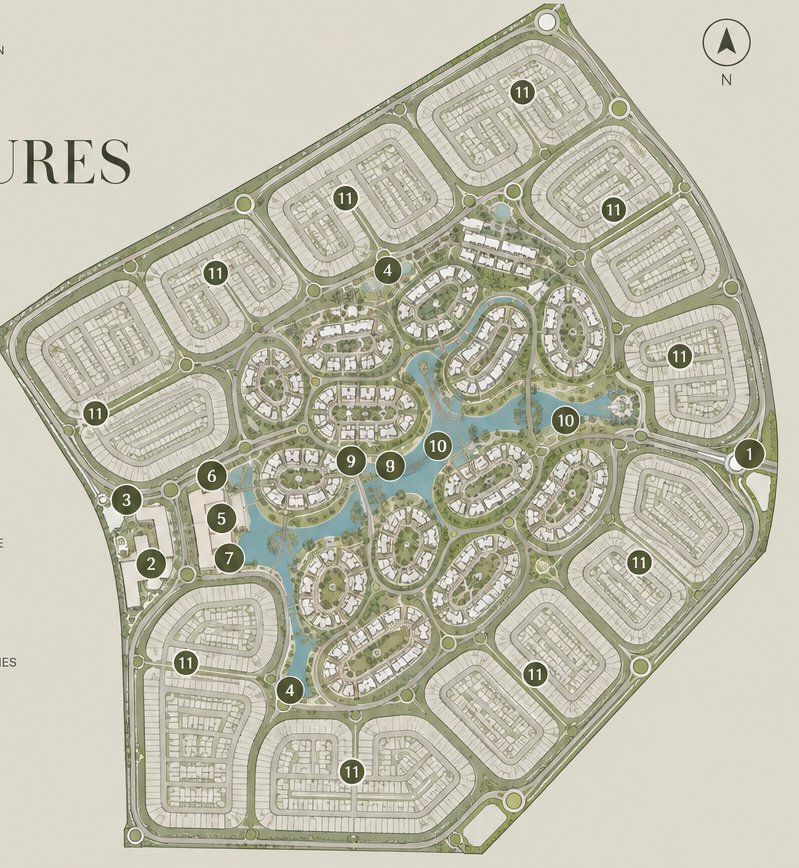
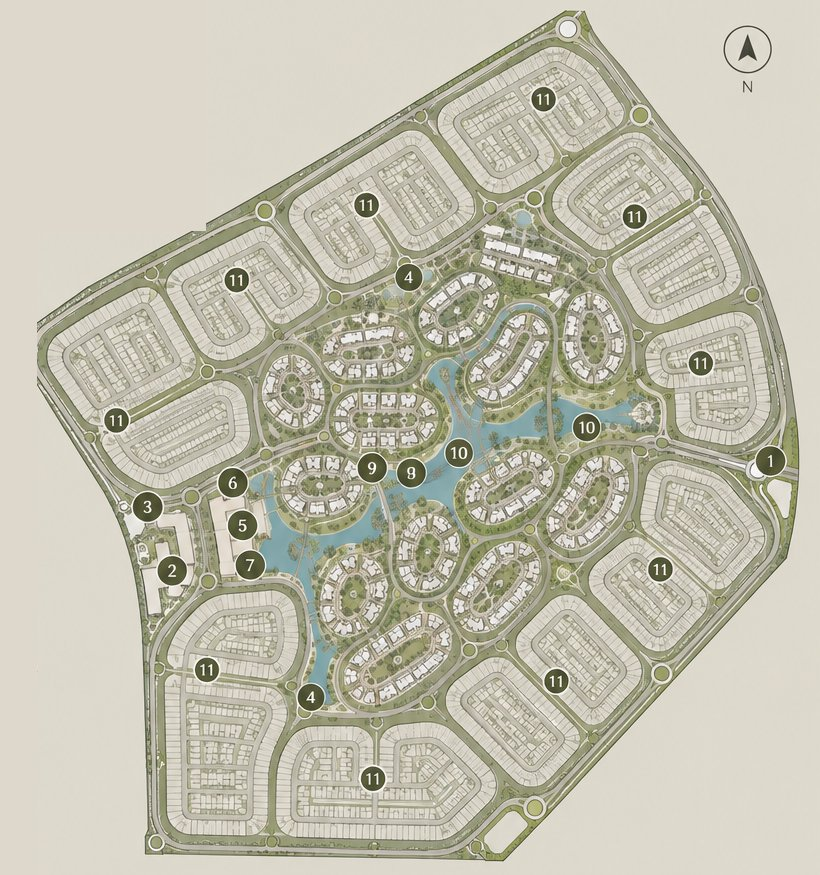
Fix hero frame seams, unify masterplan green, clean key features plan
- Hero frame is now positioned and sized in whole pixels (no -50% translate
  on fractional widths) and its media overdraws by 1px, removing the
  hairline flicker at the edges while it expands.
- Masterplan stage uses the same stone texture as the hero backdrop.
- Key features plan crop no longer shows remnants of the poster title.

Claude-Session: https://claude.ai/code/session_016YVPHK7SMDbMY3wcG3DtUr

diff --git a/src/components/scroll-expand.tsx b/src/components/scroll-expand.tsx
@@ -154,8 +154,23 @@ export function ScrollExpand({
 
     const apply = (progress: number) => {
       const styles = stylesFor(progress, geometry, window.innerWidth < 640);
+      // Snap the frame to whole pixels: fractional widths plus a -50% translate leave hairline
+      // seams at the edges while the frame animates.
+      const stage = stageRef.current;
+      const frame = frameRef.current;
+      if (stage && frame) {
+        const W = stage.clientWidth;
+        const H = stage.clientHeight;
+        const w = Math.round((parseFloat(String(styles.frame.width)) / 100) * W);
+        const h = Math.round((parseFloat(String(styles.frame.height)) / 100) * H);
+        frame.style.width = `${w}px`;
+        frame.style.height = `${h}px`;
+        frame.style.left = `${Math.round((W - w) / 2)}px`;
+        frame.style.top = `${Math.round((H - h) / 2)}px`;
+        frame.style.transform = "none";
+        frame.style.borderRadius = String(styles.frame.borderRadius);
+      }
       stageRef.current?.style.setProperty("--sx-e", String(easeOut(progress)));
-      Object.assign(frameRef.current?.style ?? {}, styles.frame);
       Object.assign(mediaRef.current?.style ?? {}, styles.media);
       Object.assign(scrimRef.current?.style ?? {}, styles.scrim);
       Object.assign(titleRef.current?.style ?? {}, styles.title);
@@ -280,8 +295,8 @@ export function ScrollExpand({
       ) : null}
       <div
         ref={frameRef}
-        style={initial.frame}
-        className="absolute left-1/2 top-1/2 -translate-x-1/2 -translate-y-1/2 overflow-hidden bg-muted will-change-[width,height,border-radius]"
+        className="absolute left-1/2 top-1/2 -translate-x-1/2 -translate-y-1/2 overflow-hidden bg-muted [backface-visibility:hidden] [contain:layout_paint]"
+        style={{ ...initial.frame, backgroundColor: backdropColor ?? undefined }}
       >
         <img
           ref={mediaRef}
@@ -289,7 +304,7 @@ export function ScrollExpand({
           alt={alt}
           fetchPriority="high"
           style={initial.media}
-          className="absolute inset-0 h-full w-full object-cover object-center will-change-transform"
+          className="absolute -inset-px h-[calc(100%+2px)] w-[calc(100%+2px)] object-cover object-center will-change-transform"
         />
         {/* Bottom gradient keeps the title legible in the small frame; the uniform scrim fades in as it expands. */}
         {coverSrc ? (
@@ -299,7 +314,7 @@ export function ScrollExpand({
             alt={coverAlt}
             fetchPriority="high"
             style={initial.cover}
-            className="absolute inset-0 h-full w-full object-cover object-center"
+            className="absolute -inset-px h-[calc(100%+2px)] w-[calc(100%+2px)] object-cover object-center"
           />
         ) : null}
         <div

diff --git a/src/routes/portfolio_.$slug.tsx b/src/routes/portfolio_.$slug.tsx
@@ -402,8 +402,13 @@ function ProjectPage() {
           const stage = details.coverBackdrop ?? "#42473a";
           return (
             <div
-              className={`flex h-full flex-col justify-center py-3 text-[#efe9dc] md:py-6 ${sectionPadding}`}
-              style={{ backgroundColor: stage }}
+              className={`flex h-full flex-col justify-center bg-cover bg-center py-3 text-[#efe9dc] md:py-6 ${sectionPadding}`}
+              style={{
+                backgroundColor: stage,
+                ...(details.coverTexture
+                  ? { backgroundImage: `url(${details.coverTexture.src})` }
+                  : {}),
+              }}
             >
               <div className="grid gap-5 md:grid-cols-[0.8fr_0.85fr_1.15fr] md:items-center md:gap-12 lg:gap-16">
                 {/* Heading + step navigator */}
@@ -562,15 +567,15 @@ function ProjectPage() {
               type="button"
               onClick={() => setOpenMasterplan(true)}
               aria-label="Open the full masterplan"
-              className="group relative block cursor-pointer overflow-hidden border border-border bg-[#e7e2d6] text-left outline-none focus-visible:ring-2 focus-visible:ring-ring"
+              className="group relative block cursor-pointer overflow-hidden border border-border bg-[#dfdbcf] text-left outline-none focus-visible:ring-2 focus-visible:ring-ring"
             >
               <img
                 src={details.keyFeaturesMap.plan.src}
                 alt={details.keyFeaturesMap.plan.alt}
-                width={799}
-                height={868}
+                width={819}
+                height={875}
                 loading="lazy"
-                className="aspect-[799/868] w-full object-cover transition-transform duration-700 group-hover:scale-[1.02]"
+                className="aspect-[819/875] w-full object-cover transition-transform duration-700 group-hover:scale-[1.02]"
               />
               <span className="pointer-events-none absolute bottom-4 right-4 inline-flex items-center gap-2 bg-background/90 px-3 py-2 text-[11px] font-medium uppercase text-foreground backdrop-blur">
                 Tap to enlarge <ArrowUpRight className="size-3.5" aria-hidden="true" />
